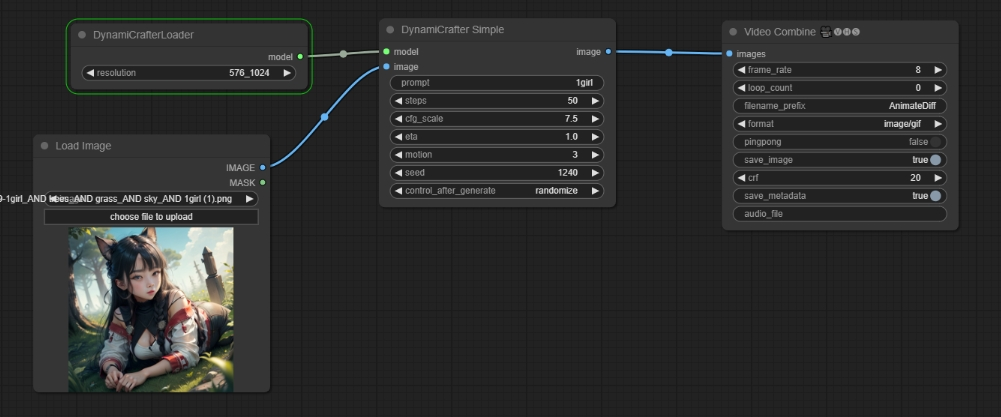
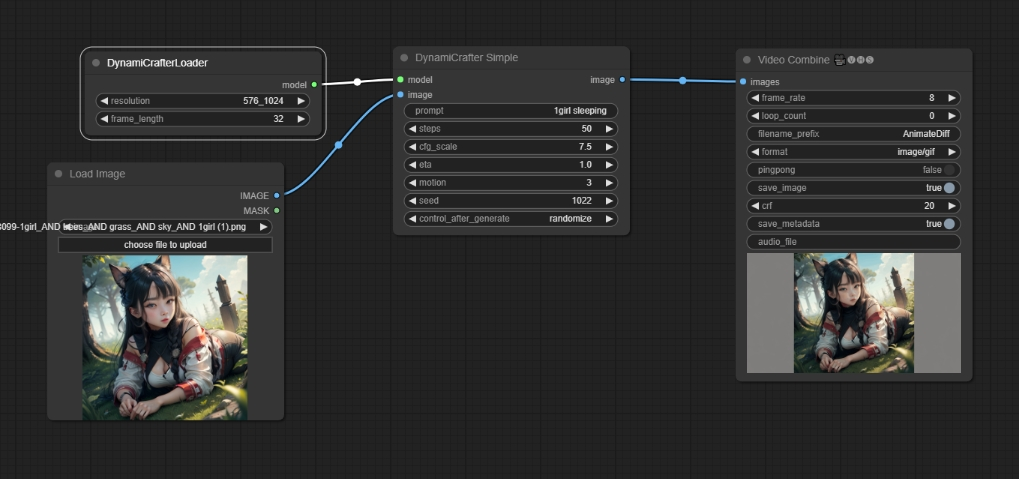
README.md

Changed region(s): [[0.0, 0.0312, 0.96, 0.9664], [0.031, 0.3429, 0.1239, 0.3741]]

diff --git a/README.md b/README.md
@@ -10,4 +10,16 @@ base workflow
 
 https://github.com/chaojie/ComfyUI-DynamiCrafter/blob/main/workflow.json
 
+prompt: 1girl
+
 <img src="video.gif" raw=true>
+
+prompt: 1girl sleeping
+
+<img src="1girl_sleeping.gif" raw=true>
+
+4090 test:
+
+16 frame length takes 3 minutes
+
+32 frame length takes 6 minutes
